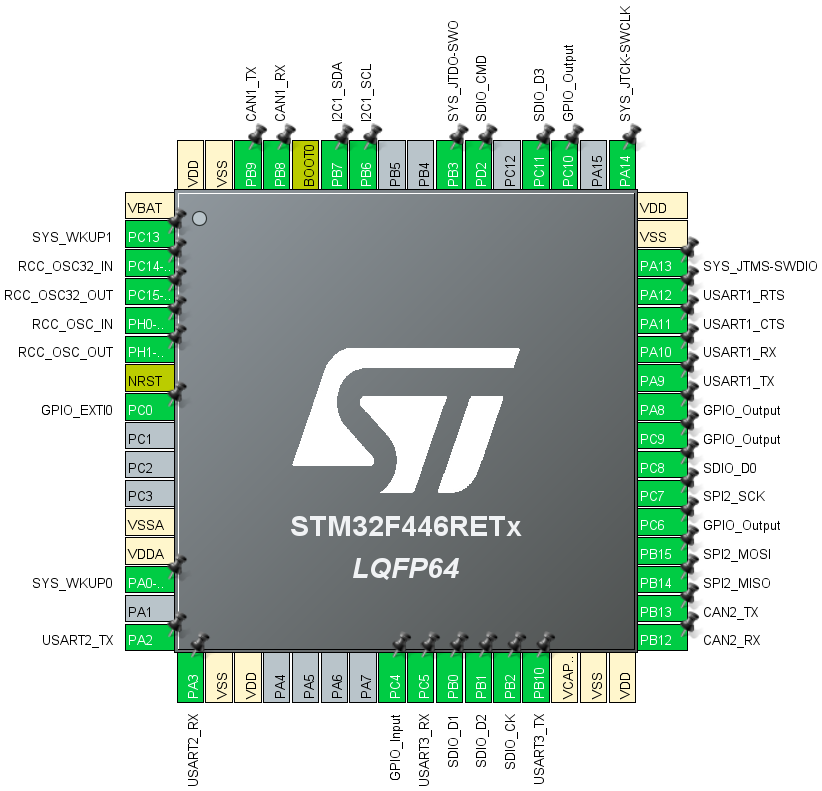
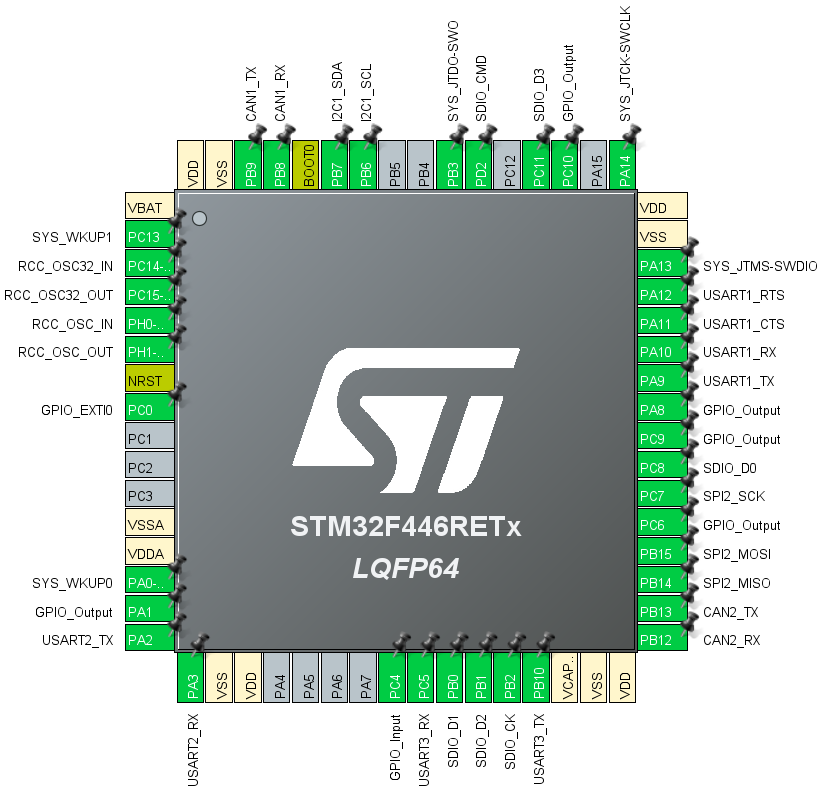
Update pinout and docs for GPS reset

diff --git a/Core/Src/main.c b/Core/Src/main.c
@@ -689,16 +689,23 @@ static void MX_GPIO_Init(void)
   __HAL_RCC_GPIOD_CLK_ENABLE();
 
   /*Configure GPIO pin Output Level */
-  HAL_GPIO_WritePin(GPIOC, GPIO_PIN_6|GPIO_PIN_9|GPIO_PIN_10, GPIO_PIN_RESET);
+  HAL_GPIO_WritePin(GPIOA, GPIO_PIN_1|GPIO_PIN_8, GPIO_PIN_RESET);
 
   /*Configure GPIO pin Output Level */
-  HAL_GPIO_WritePin(GPIOA, GPIO_PIN_8, GPIO_PIN_RESET);
+  HAL_GPIO_WritePin(GPIOC, GPIO_PIN_6|GPIO_PIN_9|GPIO_PIN_10, GPIO_PIN_RESET);
 
   /*Configure GPIO pin : PC0 */
   GPIO_InitStruct.Pin = GPIO_PIN_0;
   GPIO_InitStruct.Mode = GPIO_MODE_IT_FALLING;
   GPIO_InitStruct.Pull = GPIO_PULLUP;
   HAL_GPIO_Init(GPIOC, &GPIO_InitStruct);
+
+  /*Configure GPIO pins : PA1 PA8 */
+  GPIO_InitStruct.Pin = GPIO_PIN_1|GPIO_PIN_8;
+  GPIO_InitStruct.Mode = GPIO_MODE_OUTPUT_PP;
+  GPIO_InitStruct.Pull = GPIO_NOPULL;
+  GPIO_InitStruct.Speed = GPIO_SPEED_FREQ_LOW;
+  HAL_GPIO_Init(GPIOA, &GPIO_InitStruct);
 
   /*Configure GPIO pin : PC4 */
   GPIO_InitStruct.Pin = GPIO_PIN_4;
@@ -712,13 +719,6 @@ static void MX_GPIO_Init(void)
   GPIO_InitStruct.Pull = GPIO_NOPULL;
   GPIO_InitStruct.Speed = GPIO_SPEED_FREQ_LOW;
   HAL_GPIO_Init(GPIOC, &GPIO_InitStruct);
-
-  /*Configure GPIO pin : PA8 */
-  GPIO_InitStruct.Pin = GPIO_PIN_8;
-  GPIO_InitStruct.Mode = GPIO_MODE_OUTPUT_PP;
-  GPIO_InitStruct.Pull = GPIO_NOPULL;
-  GPIO_InitStruct.Speed = GPIO_SPEED_FREQ_LOW;
-  HAL_GPIO_Init(GPIOA, &GPIO_InitStruct);
 
   /* EXTI interrupt init*/
   HAL_NVIC_SetPriority(EXTI0_IRQn, 0, 0);

diff --git a/README.md b/README.md
@@ -124,8 +124,9 @@ STM32F446RE with telemetry ICs.
 | PA9         | USART1_TX             | 115200 bps            | XBP9X-DMUS-001 Pin 4: DIN      |                                       |
 | PA11        | USART1_CTS            |                       | XBP9X-DMUS-001 Pin 25: CTS     | Hardware flow control (RS232).        |
 | PA12        | USART1_RTS            |                       | XBP9X-DMUS-001 Pin 29: RTS     | Hardware flow control (RS232).        |
-| PA3         | USART2_RX             | 115200 bps            | GPS (TBD)                      |                                       |
-| PA2         | USART2_TX             | 115200 bps            | GPS (TBD)                      |                                       |
+| PA3         | USART2_RX             | 115200 bps            | SAM-M10Q Pin 13: TXD           |                                       |
+| PA2         | USART2_TX             | 115200 bps            | SAM-M10Q Pin 14: RXD           |                                       |
+| PA1         | GPIO_Output           |                       | SAM-M10Q Pin 18: RESET_N       | Pull low to reset (>= 1 ms).          |
 | PC5         | USART3_RX             | 115200 bps            | SPLIT4-25V2                    |                                       |
 | PB10        | USART3_TX             | 115200 bps            | SPLIT4-25V2                    |                                       |
 | PB2         | SDIO_CK               |                       | MicroSD card: CK               |                                       |
